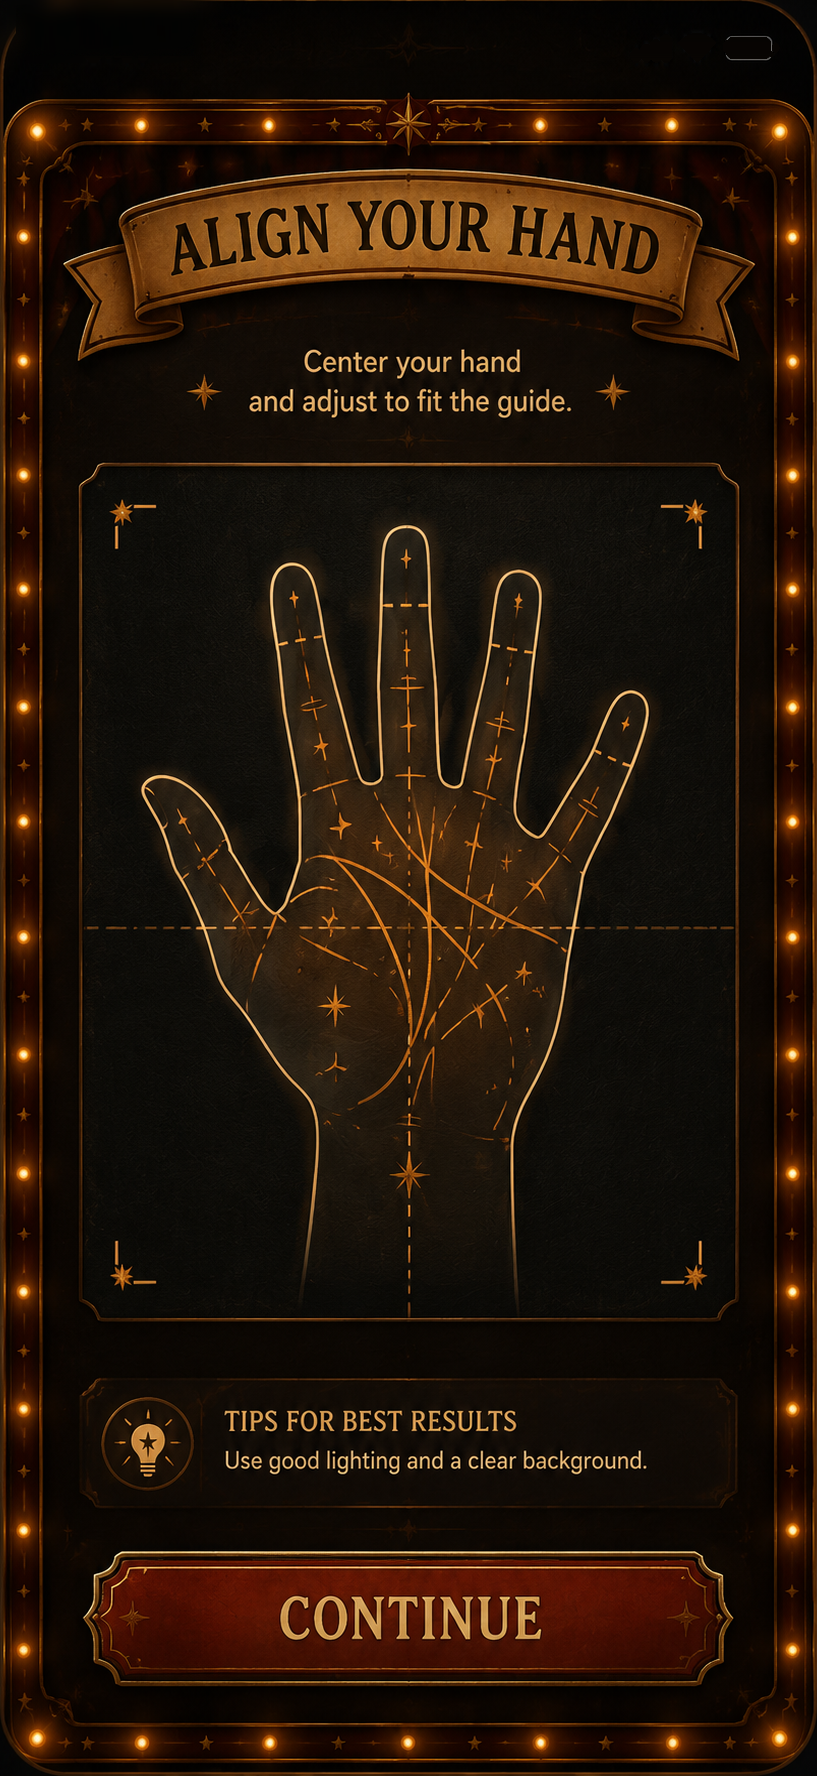
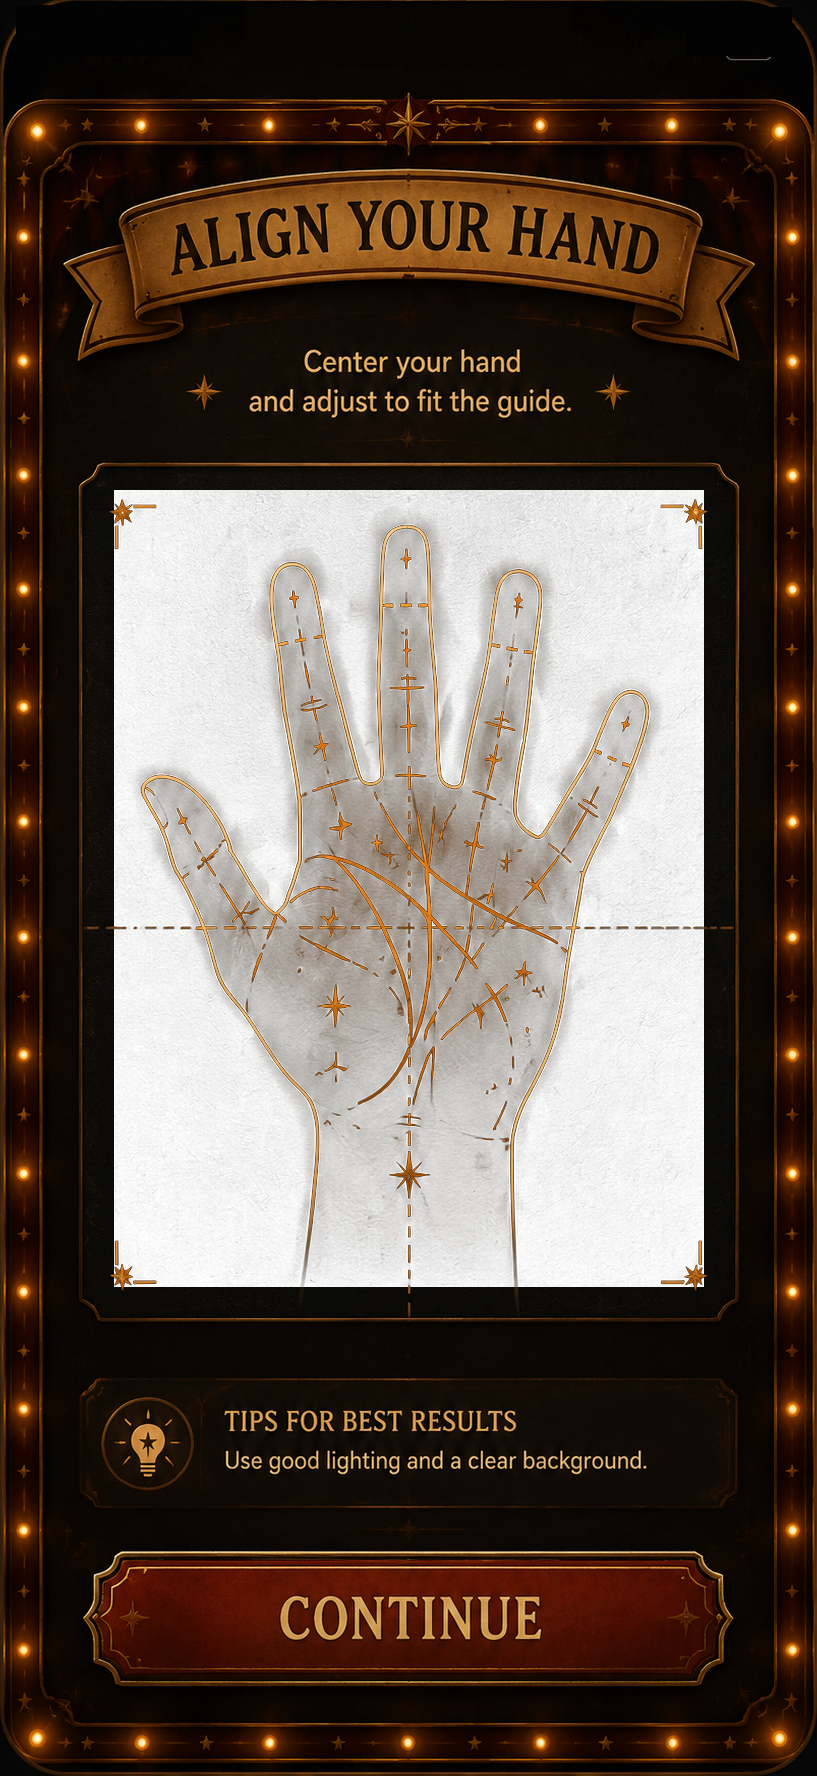
Fix: camera invisible on Align — alpha channel had been flattened
The Align screen shows the live feed *through* the artwork: bg_align's
viewfinder is luminance-keyed to transparent so the baked glow,
crosshairs and brackets stay painted over the camera. The batch script
that erased baked device chrome (clocks, notches, batteries) called
.convert("RGB") on every asset, which silently dropped that alpha and
left the camera hidden behind opaque art.

Regenerated bg_align from the source comp with the artifact erases
operating on RGB channels only, leaving alpha intact — the viewfinder
is 58% transparent again.

Added ArtAssetTests, which inspects the COMPILED bundled asset and
fails if the viewfinder is not meaningfully transparent. Verified it
fails on the flattened asset (0%) and passes on the fixed one — the
build stayed green through this bug and no screenshot could catch it,
because the simulator has no camera.

diff --git a/DestinyLinesTests/ArtAssetTests.swift b/DestinyLinesTests/ArtAssetTests.swift
@@ -1,0 +1,64 @@
+import Foundation
+import Testing
+import UIKit
+@testable import DestinyLines
+
+/// Guards on properties of the bundled artwork that the app's behaviour depends on.
+@MainActor
+struct ArtAssetTests {
+
+    /// The Align screen shows the live camera *through* the artwork: the viewfinder
+    /// interior of bg_align is luminance-keyed to transparent so the baked glow,
+    /// crosshairs and brackets stay painted on top of the feed.
+    ///
+    /// This regressed once when a batch image-cleanup script called `.convert("RGB")`
+    /// over every asset, silently flattening the alpha and leaving the camera hidden
+    /// behind opaque art. Nothing failed to build and no screenshot caught it, because
+    /// the simulator has no camera. Hence this test, which inspects the compiled asset.
+    @Test func alignArtViewfinderIsTransparent() throws {
+        let image = try #require(UIImage(named: "bg_align"), "bg_align missing from the bundle")
+        let cgImage = try #require(image.cgImage)
+
+        // Must match AlignHandView.viewfinder.
+        let viewfinder = (x: 0.140, y: 0.276, w: 0.722, h: 0.449)
+        let width = cgImage.width
+        let height = cgImage.height
+
+        let region = CGRect(
+            x: Int(viewfinder.x * Double(width)),
+            y: Int(viewfinder.y * Double(height)),
+            width: Int(viewfinder.w * Double(width)),
+            height: Int(viewfinder.h * Double(height))
+        )
+        let cropped = try #require(cgImage.cropping(to: region))
+
+        // Render into a known RGBA buffer so we can read the alpha channel directly.
+        let sampleWidth = 60
+        let sampleHeight = 80
+        var pixels = [UInt8](repeating: 0, count: sampleWidth * sampleHeight * 4)
+        let context = try #require(
+            CGContext(
+                data: &pixels,
+                width: sampleWidth,
+                height: sampleHeight,
+                bitsPerComponent: 8,
+                bytesPerRow: sampleWidth * 4,
+                space: CGColorSpaceCreateDeviceRGB(),
+                bitmapInfo: CGImageAlphaInfo.premultipliedLast.rawValue
+            )
+        )
+        context.draw(cropped, in: CGRect(x: 0, y: 0, width: sampleWidth, height: sampleHeight))
+
+        let alphas = stride(from: 3, to: pixels.count, by: 4).map { pixels[$0] }
+        let transparentShare = Double(alphas.filter { $0 < 40 }.count) / Double(alphas.count)
+
+        #expect(
+            transparentShare > 0.25,
+            """
+            bg_align's viewfinder is \(Int(transparentShare * 100))% transparent — the camera \
+            feed will not be visible through it. The alpha channel was probably flattened by \
+            an image-processing step; regenerate the asset preserving RGBA.
+            """
+        )
+    }
+}
